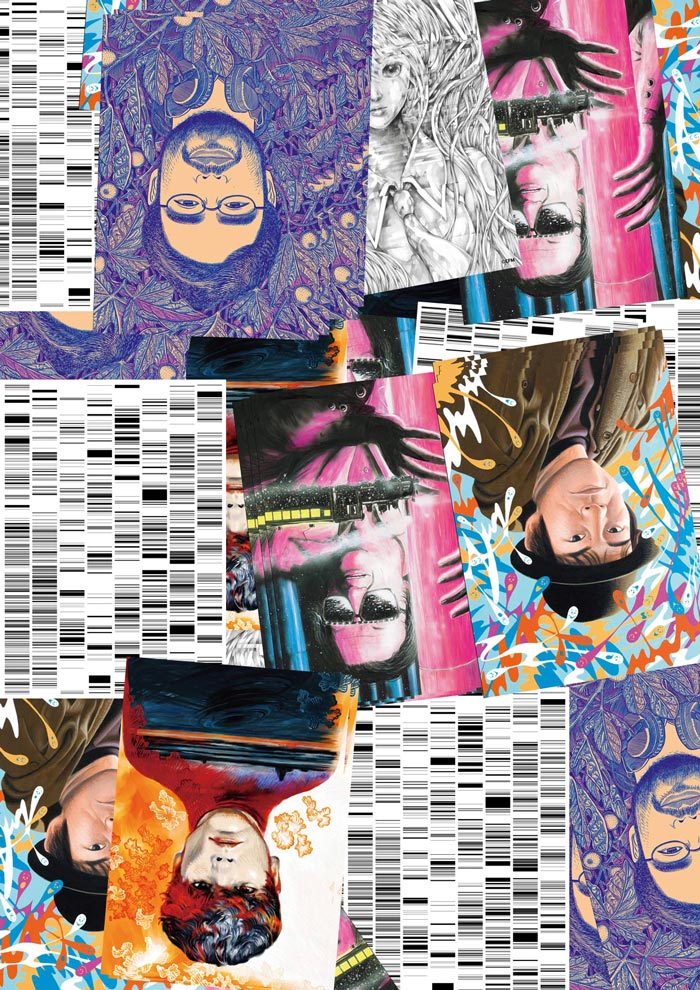
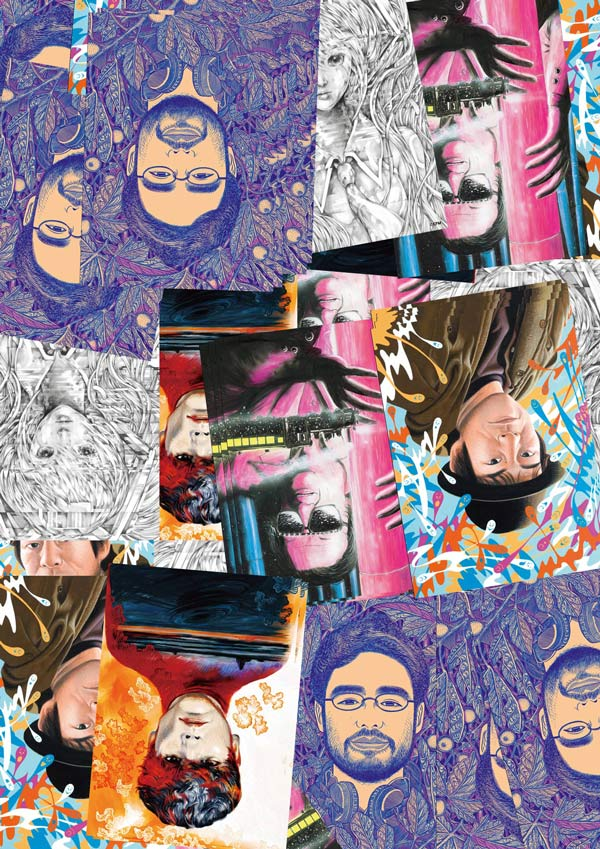
better centering

diff --git a/js/directives.js b/js/directives.js
@@ -160,7 +160,7 @@
                         }
                     });
                     n.position.y = -30;
-                    n.position.x = -60;
+                    n.position.x = -70;
                     return h.add(n);
                 });
                 f = new THREE.WebGLRenderer({
@@ -172,11 +172,11 @@
                 return window.addEventListener("resize", l, false);
             };
             l = function() {
-                w = window.innerWidth / 4;
-                v = window.innerHeight / 4;
-                o.aspect = n.innerWidth / 2 / window.innerHeight;
+                w = window.innerWidth / 2;
+                v = window.innerHeight / 2;
+                o.aspect = n.innerWidth / window.innerHeight;
                 o.updateProjectionMatrix();
-                return f.setSize(n.innerWidth / 2, window.innerHeight);
+                return f.setSize(n.innerWidth, window.innerHeight);
             };
             s = function(n) {
                 d = (n.clientX - w) / 2;
@@ -187,7 +187,7 @@
                 return p();
             };
             p = function() {
-                o.position.x += (d - o.position.x) * .1;
+                o.position.x += (d - o.position.x) * .05;
                 o.position.y += (-c - o.position.y) * .1;
                 o.lookAt(h.position);
                 return f.render(h, o);

diff --git a/partials/index.html b/partials/index.html
@@ -5,8 +5,8 @@
       <li ng-repeat="quote in body.individualQuote" hover-pic="hover-pic" img="{{quote.fields.artistImage.fields.file.url}}" ng-click="launchVid(quote)" id="{{quote.sys.id}}"><span ng-bind-html="trust(quote.fields.titleName)" class="name"></span>
       </li>
     </ul>
-    <div class="link-box"><a href="http://www.redbullmusicacademy.jp/jp/events/" class="header-link">Event Calendar</a></div>
-    <div class="link-box"><a href="http://www.redbullmusicacademy.jp/jp/home" class="header-link">REDBULLMUSICACADEMY.JP</a></div>
+    <div class="link-box"><a href="http://www.redbullmusicacademy.jp/jp/events/" target="self" class="header-link">Event Calendar</a></div>
+    <div class="link-box"><a href="http://www.redbullmusicacademy.jp/jp/home" target="self" class="header-link">REDBULLMUSICACADEMY.JP</a></div>
     <div class="button-group">
       <div class="button"><a href="https://twitter.com/share?url=http://www.redbullmusicacademy.jp&amp;via=rbma_jp&amp;text=6名のアーティストの言葉が伝える #RBMATOKYOの哲学" target="blank"><span class="fa fa-twitter"></span></a></div>
       <div class="button"><a href="https://www.facebook.com/sharer/sharer.php?u=http://www.redbullmusicacademy.jp" target="blank"><span class="fa fa-facebook"></span></a></div>

diff --git a/css/main.css b/css/main.css
@@ -249,7 +249,8 @@ header {
   .image-wrapper h1 {
     bottom: 100px;
     line-height: 1.5;
-    width: 100%;
+    width: 90%;
+    margin-left: 5%;
     -webkit-font-smoothing: antialiased;
     text-transform: none;
     font-size: 1.5em;

diff --git a/css/_body.scss b/css/_body.scss
@@ -15,7 +15,8 @@
 	h1{
 		bottom: 100px;
 		line-height: 1.5;
-		width: 100%;
+		width: 90%;
+		margin-left: 5%;
 		-webkit-font-smoothing: antialiased;
 		text-transform: none;
 		font-size: 1.5em;
